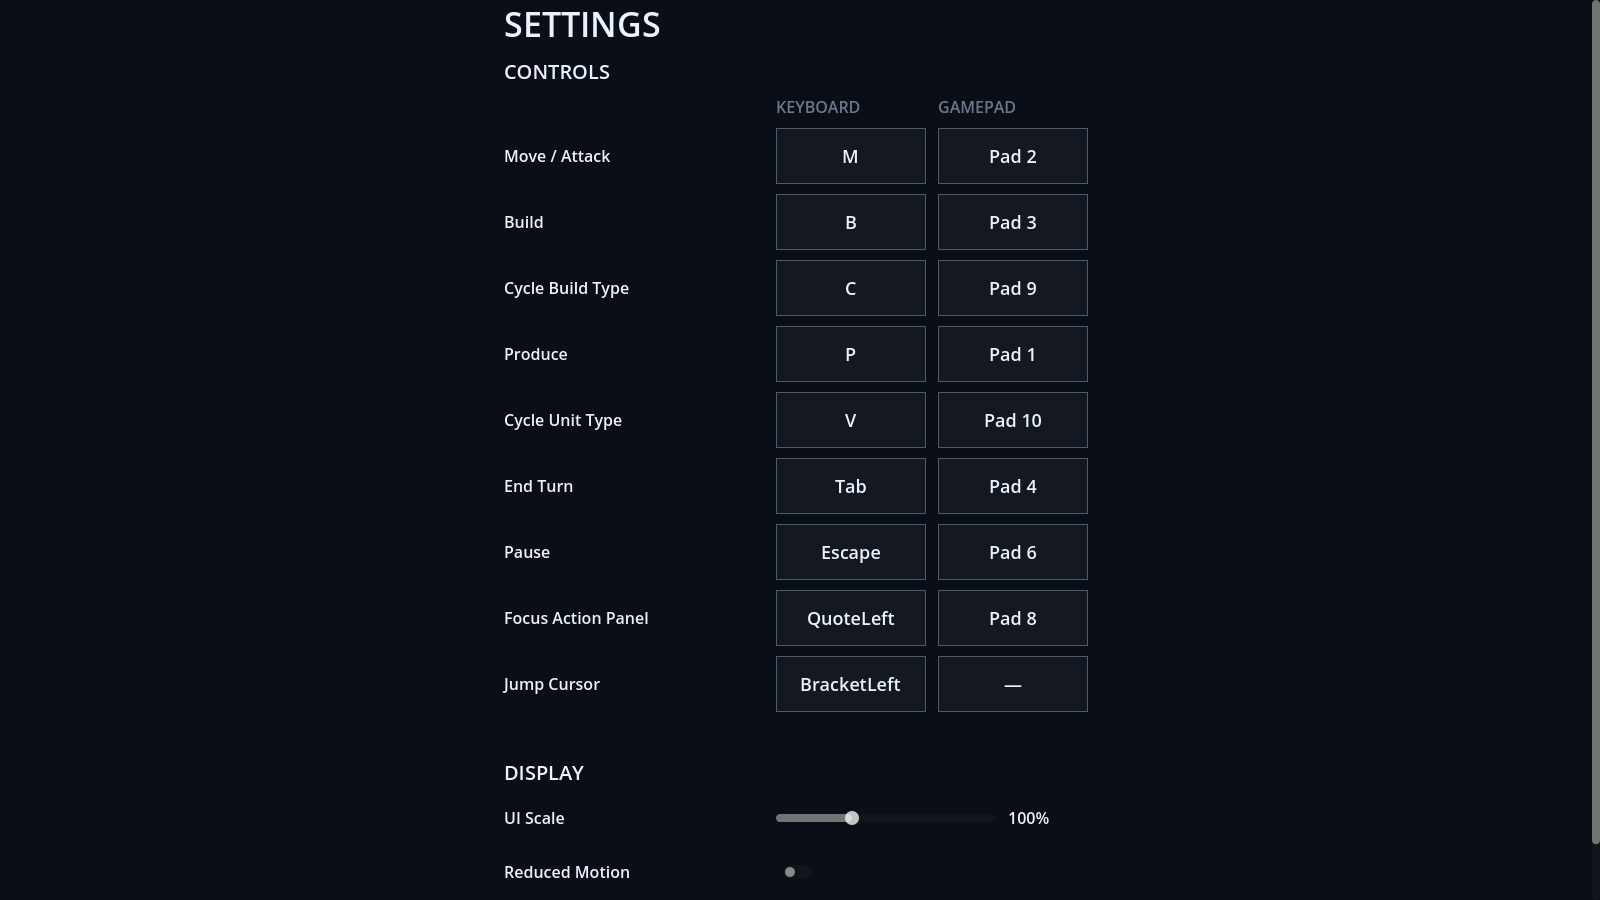
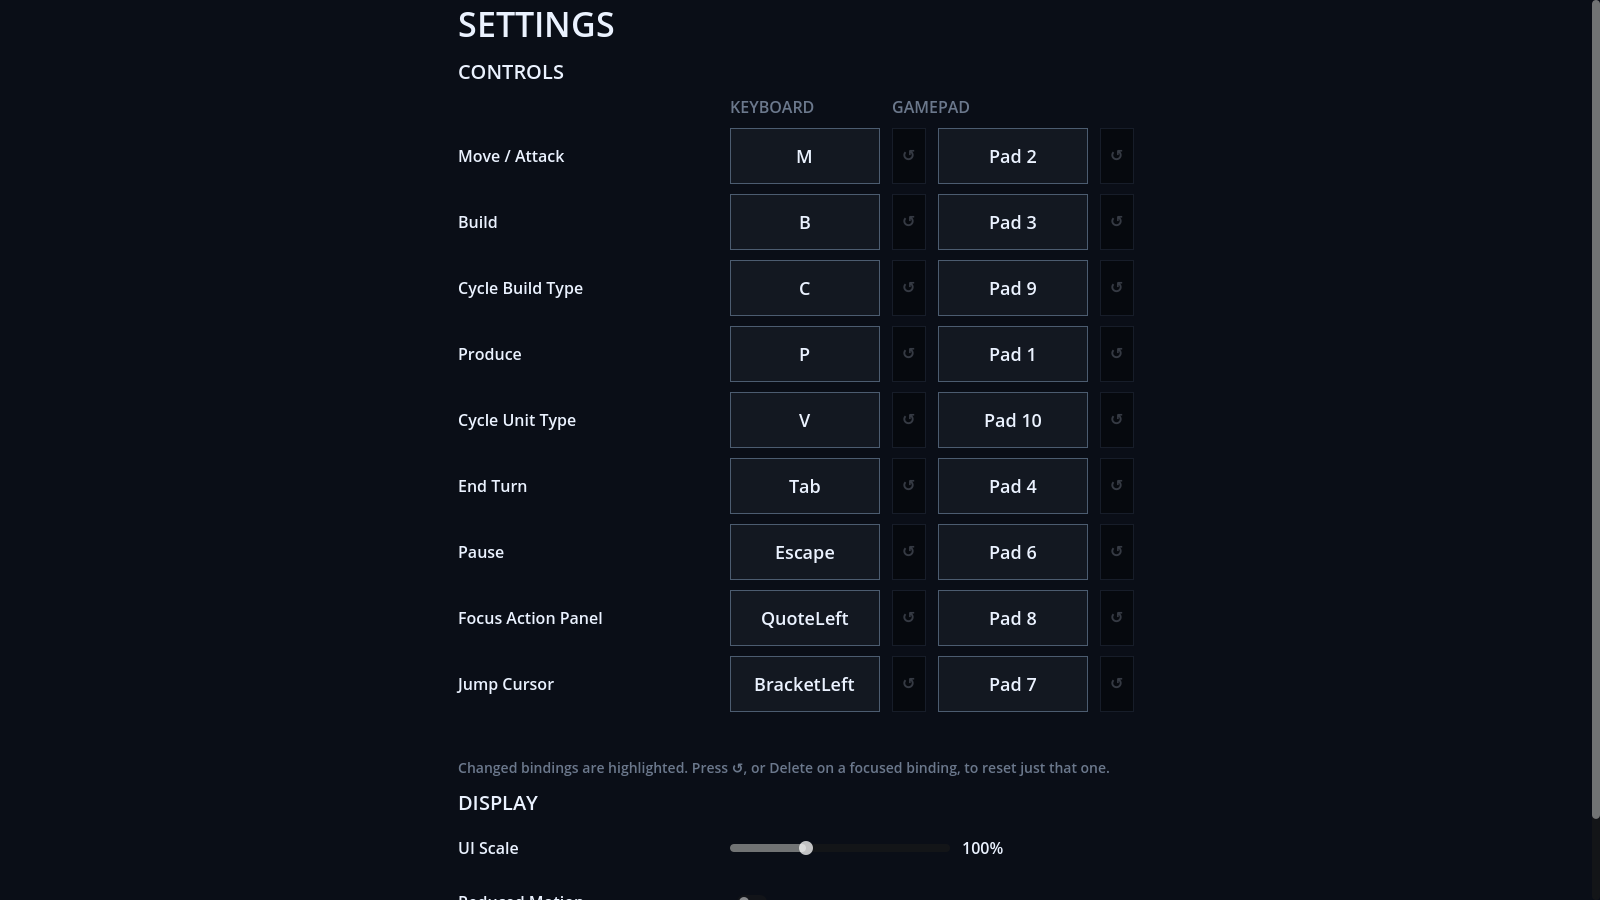
feat(settings): per-binding reset — undo one binding without discarding the rest
Closes design/ux/settings.md OQ-2. Reset to Defaults was the only revert and it
was all-or-nothing, so a player who mis-bound ONE control had to discard every
other customisation they had made in order to fix it.

★ CELL granularity, not row. Per-row would have thrown away the keyboard binding
of a player who mis-bound their gamepad for the same action — the same bug at
smaller scale, which is the trap this fix exists to avoid.

★ Two input paths, and it needs both. technical-preferences.md requires every
action be reachable by CLICK; the Standard accessibility tier requires
keyboard/gamepad reach. A Delete-only clear fails the first; a mouse-only button
fails the second. So: a ↺ button per cell for the mouse, Delete on the focused
binding for keyboard and pad.

★ The ↺ buttons are deliberately NOT focusable. Making them so would take the
controls table from 18 tab stops to 27 — slowing the input method that can least
afford it, to duplicate a path Delete already covers in one press. They are
visible-but-inert when there is nothing to reset, which is the Standard Button
pattern's stated treatment for inert controls and turns the column into the
"which of these have I changed?" readout the table otherwise had no way to give.

Changed bindings now render in the accent colour, PAIRED with a live ↺ so the
colour is never the only signal — the same non-hue rule the board follows applies
to settings UI.
[…]

diff --git a/design/ux/settings.md b/design/ux/settings.md
@@ -1,8 +1,9 @@
 # UX Spec: Settings Screen
 
 > **Status**: Reviewed — **APPROVED** (`/ux-review` 2026-08-24, re-run after 4 blocking issues
-> fixed; 0 blocking remaining). ⚠ Written **retroactively** — see the banner below, which is not
-> superseded by the approval.
+> fixed; 0 blocking remaining). **Revised 2026-08-24 (S6-28)** to add per-binding reset, closing
+> OQ-2 — affected sections re-checked against the review checklist, no new findings.
+> ⚠ Written **retroactively** — see the banner below, which is not superseded by the approval.
 > **Author**: main session, from standing commitments
 > **Last Updated**: 2026-08-24
 > **Journey Phase(s)**: Pre-play configuration (from the main menu) and in-match interrupt (from
@@ -110,6 +111,7 @@ currently ~12 rows.
 | Column headers | Controls | text | "KEYBOARD" / "GAMEPAD" | No | — |
 | Action label | Controls | text | e.g. "Move / Attack" | No | — |
 | Binding button | Controls | button | current input name, or "—" | Yes | **Standard Button** |
+| Per-binding reset (↺) | Controls | button | "↺" | Yes (click only — see Interaction Map) | **Standard Button** (inert state) |
 | Hint / conflict line | Controls | text | prompt or ⚠ warning | No | — |
 | UI Scale | Display | slider + value | 75–150%, shown as % | Yes | **Value Slider** |
 | Reduced Motion | Display | toggle | on/off | Yes | **Setting Toggle** |
@@ -123,8 +125,8 @@ currently ~12 rows.
  │  SETTINGS                                         │
  │  CONTROLS                                         │
  │                     KEYBOARD      GAMEPAD         │
- │  Move / Attack      [   M    ]   [  Pad 2  ]      │
- │  Build              [   B    ]   [  Pad 3  ]      │
+ │  Move / Attack      [   M    ]↺  [  Pad 2  ]↺     │
+ │  Build              [   B    ]↺  [  Pad 3  ]↺     │
  │  Cycle Build Type   [   C    ]   [  Pad 9  ]      │
  │  Produce            [   P    ]   [  Pad 1  ]      │
  │  Cycle Unit Type    [   V    ]   [ Pad 10  ]      │
@@ -133,6 +135,8 @@ currently ~12 rows.
  │  Focus Action Panel [QuoteLeft]  [  Pad 8  ]      │
  │  Jump Cursor        [BracketLeft][  Pad 7  ]      │
  │  ⚠ Also bound to: Pause                           │
+ │  Changed bindings are highlighted. Press ↺, or    │
+ │  Delete on a focused binding, to reset just that. │
  │                                                   │
  │  DISPLAY                                          │
  │  UI Scale           [───●────────]   100%         │
@@ -152,6 +156,7 @@ currently ~12 rows.
 | Listening | A binding button pressed | That button reads "PRESS…"; hint line names which input family is expected |
 | Conflict | A bind duplicates another action's | ⚠ line names every other action using that input; **the bind still applies** |
 | Reset | "Reset to Defaults" | All overrides cleared; hint line confirms |
+| **Changed** | A binding differs from the shipped default | That cell's text takes the accent colour and its ↺ becomes live. Unchanged cells keep default text and an inert ↺ |
 | **Save failed** | Any change, when `user://settings.cfg` cannot be written | ⚠ line names the file, the error code, and that the change applies now but will not survive exit. The change is **not** rolled back |
 
 No loading state (settings load at boot). No empty state (the controls table is never empty — the
@@ -174,7 +179,9 @@ the player just asked for would compound one failure with a second surprise.
 | (listening) | cancel | Esc | table restores | nothing changed |
 | UI Scale | adjust | drag · arrows when focused | live rescale, % updates | applied, saved |
 | Reduced Motion | toggle | click · Enter · gamepad A | toggle state | applied, saved |
-| Reset to Defaults | activate | click · Enter · gamepad A | table repopulates | overrides cleared, saved |
+| Per-binding reset (↺) | reset one binding | **click** | that cell reverts; hint line names what was reset | one override cleared, saved |
+| (focused binding) | reset one binding | **Delete** | same | one override cleared, saved |
+| Reset to Defaults | activate | click · Enter · gamepad A | table repopulates | **all** overrides cleared, saved |
 | Back | activate | click · Enter · Esc · gamepad A · **gamepad B / Cancel** | screen closes | returns to caller |
 
 Focus order: the controls table top-to-bottom (keyboard column, then gamepad), then UI Scale,
@@ -188,8 +195,22 @@ bindings impossible: every swap passes through a state where both actions want t
 ⚠ line names what else uses it and the player decides.
 
 **2. Changes apply and save immediately — there is no OK/Cancel.** A player rebinding a control they
-cannot press needs to *test* it, and an un-applied change cannot be tested. The cost is that there
-is no "revert my last change"; **Reset to Defaults is the only undo**, which is coarse.
+cannot press needs to *test* it, and an un-applied change cannot be tested. The undo is therefore
+**per binding**, not per session: ↺ or Delete restores one cell to its default, leaving every other
+customisation intact. Reset to Defaults remains as the all-or-nothing option. The residual cost is
+that there is still no *chronological* undo — you can revert any binding to its default, but not to
+whatever you had it on two changes ago.
+
+**2a. The reset affordance has two input paths, and needs both.** `technical-preferences.md` requires
+every action be reachable by **click**; the Standard tier requires keyboard/gamepad reach. A
+Delete-only clear fails the first, a mouse-only ↺ fails the second. So: ↺ for the mouse, Delete on
+the focused binding for keyboard and pad.
+
+★ The ↺ buttons are deliberately **not focusable**. Making them so would take the controls table
+from 18 tab stops to 27 — slowing the input method that can least afford it, to duplicate a path
+Delete already covers in one press. They are visible-but-inert when there is nothing to reset, which
+is the Standard Button pattern's stated treatment and doubles as the **"which of these have I
+changed?"** readout the table otherwise has no way to give.
 
 **3. Esc during a rebind cancels rather than binding Esc.** Otherwise the only way out of a
 listening row is to bind something, which traps a player who opened it by mistake. The cost:
@@ -263,7 +284,9 @@ And respects the same floors as the other screens:
 
 Keyboard focus is styled distinctly from mouse hover by colour **and** border weight, so the
 distinction is not colour-only. No information anywhere on this screen is carried by colour alone —
-every row is labelled text, and the ⚠ line states its warning in words.
+every row is labelled text, the ⚠ line states its warning in words, and the **changed-binding
+highlight is paired with a live ↺** so the accent colour is never the only signal that a binding
+differs from its default.
 
 ★ **A player can lock themselves out of nothing.** `ui_accept`, `ui_cancel` and the directional
 actions are not rebindable, so no sequence of changes can leave a player unable to operate this
@@ -317,6 +340,12 @@ which is unusual enough to state rather than leave as a blank section.
 - [x] UI scale adjusts between 75% and 150% and persists.
 - [x] Reduced motion persists and visibly stops the resting glow animation.
 - [x] Reset to Defaults clears every override.
+- [x] A single binding can be reset on its own, by click (↺) and by keyboard/gamepad (Delete on the
+      focused binding), without disturbing any other customisation — including the same action's
+      binding on the other device.
+- [x] Bindings that differ from their default are visibly marked, and the mark is not colour-alone.
+- [x] Resetting the last remaining override leaves the saved file mentioning no bindings at all, so
+      the player continues to inherit future changes to the shipped control scheme.
 - [x] A settings file that is missing, out of range, or references a deleted action degrades
       cleanly rather than erroring.
 - [x] A failed save tells the player, names the file, and does not roll back the change.
@@ -338,9 +367,13 @@ which is unusual enough to state rather than leave as a blank section.
    unnoticed — three of the four were never *decided*, only never *noticed*. The reviewer did not
    challenge Back-focused-on-open, the absence of OK/Cancel, or the flat controls list; those stand,
    but they stand unchallenged rather than endorsed.
-2. **No per-change undo.** Reset to Defaults is the only revert, and it is all-or-nothing. A player
-   who mis-binds one control loses every other customisation to fix it. A per-row "clear" would be
-   cheap and is not implemented.
+2. ~~**No per-change undo**~~ — ✅ **fixed 2026-08-24 (S6-28).** Per-binding reset via ↺ (click) or
+   Delete (focused binding), at **cell** granularity rather than per row — a player who mis-binds
+   their gamepad keeps their keyboard binding for the same action, which per-row would have thrown
+   away and would have been the same bug at smaller scale.
+   ⚠ **Residual:** there is still no *chronological* undo. Any binding can be returned to its
+   default, but not to a previous non-default value. That needs a change history and is not
+   implemented; nobody has asked for it.
 3. ~~**A failed save is silent**~~ — ✅ **fixed 2026-08-24** (review B-1). Every save routes through
    one funnel that surfaces the error on the hint line and pushes it to the log; the change is not
    rolled back. Routed through a single site precisely because four separate call sites is how it

diff --git a/production/post-gate-backlog.md b/production/post-gate-backlog.md
@@ -193,9 +193,15 @@ accessibility claim is made publicly.
 > settings with no indication. Two new patterns (Value Slider, Setting Toggle) were added to
 > `interaction-patterns.md` as part of the fix.
 >
-> **Still open from its Open Questions:** no per-change undo (Reset is all-or-nothing), and `ui_*`
-> actions being unrebindable — which prevents lockout but also blocks a legitimate
-> motor-accessibility need.
+> **✅ Per-binding reset shipped 2026-08-24 (S6-28)**, closing that spec's OQ-2. ↺ (click) or Delete
+> (focused binding), at **cell** granularity — a player who mis-binds their gamepad keeps their
+> keyboard binding for the same action. Changed bindings are now visibly marked, which also gives the
+> table the "what have I changed?" readout it never had.
+>
+> **Still open from its Open Questions:** `ui_*` actions being unrebindable — which prevents lockout
+> but also blocks a legitimate motor-accessibility need; and no *chronological* undo (any binding can
+> return to its default, but not to a previous non-default value — needs a change history, nobody has
+> asked for it).
 >
 > **Still open from this item:** `InputConfig.menu_keyboard_nav_enabled` (ADR-0014 §6 — there is
 > still no `InputConfig` instance, and the ADR flags `FOCUS_CLICK` as its one unverified engine
